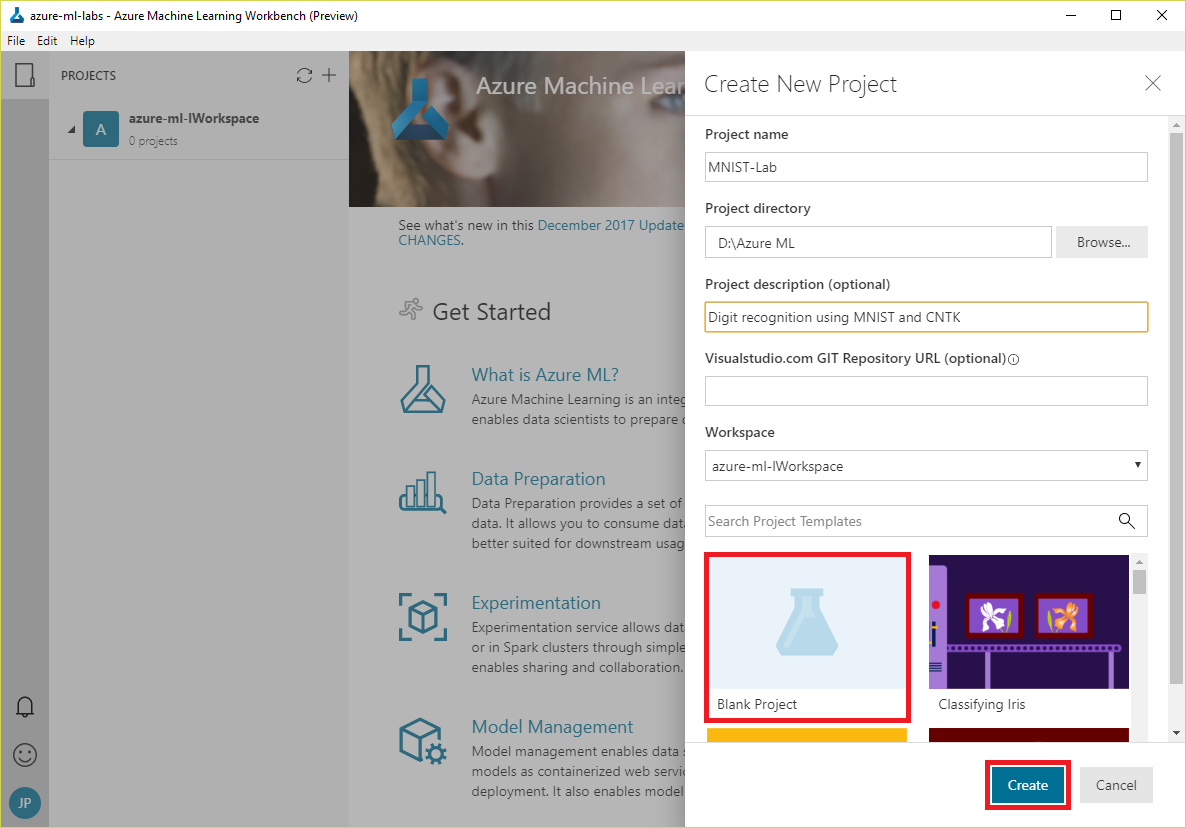
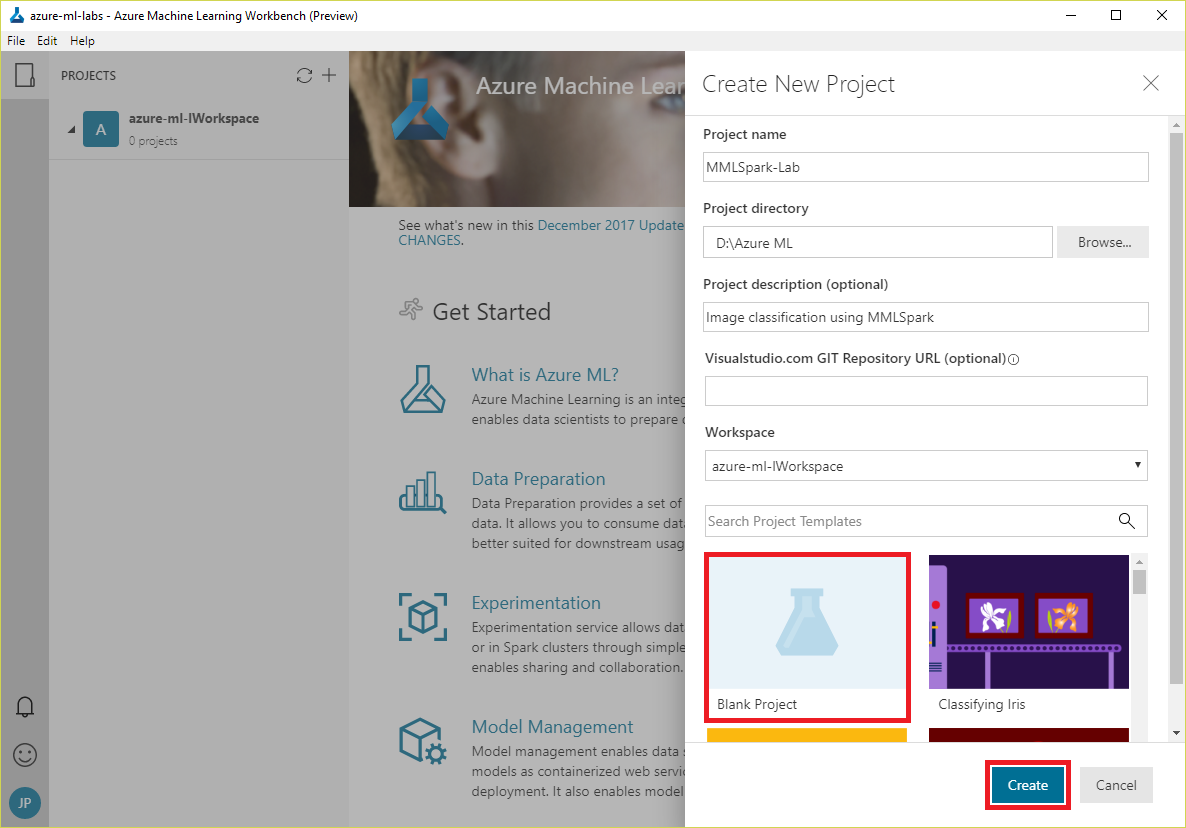
Updated first lab in 400 series

diff --git a/Image Classification with MMLSpark (400)/1 - Ingest/readme.md b/Image Classification with MMLSpark (400)/1 - Ingest/readme.md
@@ -128,7 +128,7 @@ In this exercise, you will use Azure Machine Learning Workbench to write and exe
 
 	_Creating a new project_
 
-1. Enter a project name such as "MNIST-Lab" and a project description. For **Project directory**, specify the location where you would like for the project directory to be created. Make sure **Blank Project** is selected as the project type, and then click the **Create** button.
+1. Enter a project name such as "MMLSpark-Lab" and a project description. For **Project directory**, specify the location where you would like for the project directory to be created. Make sure **Blank Project** is selected as the project type, and then click the **Create** button.
 
 	![Creating a new project](Images/new-project-2.png)
 
